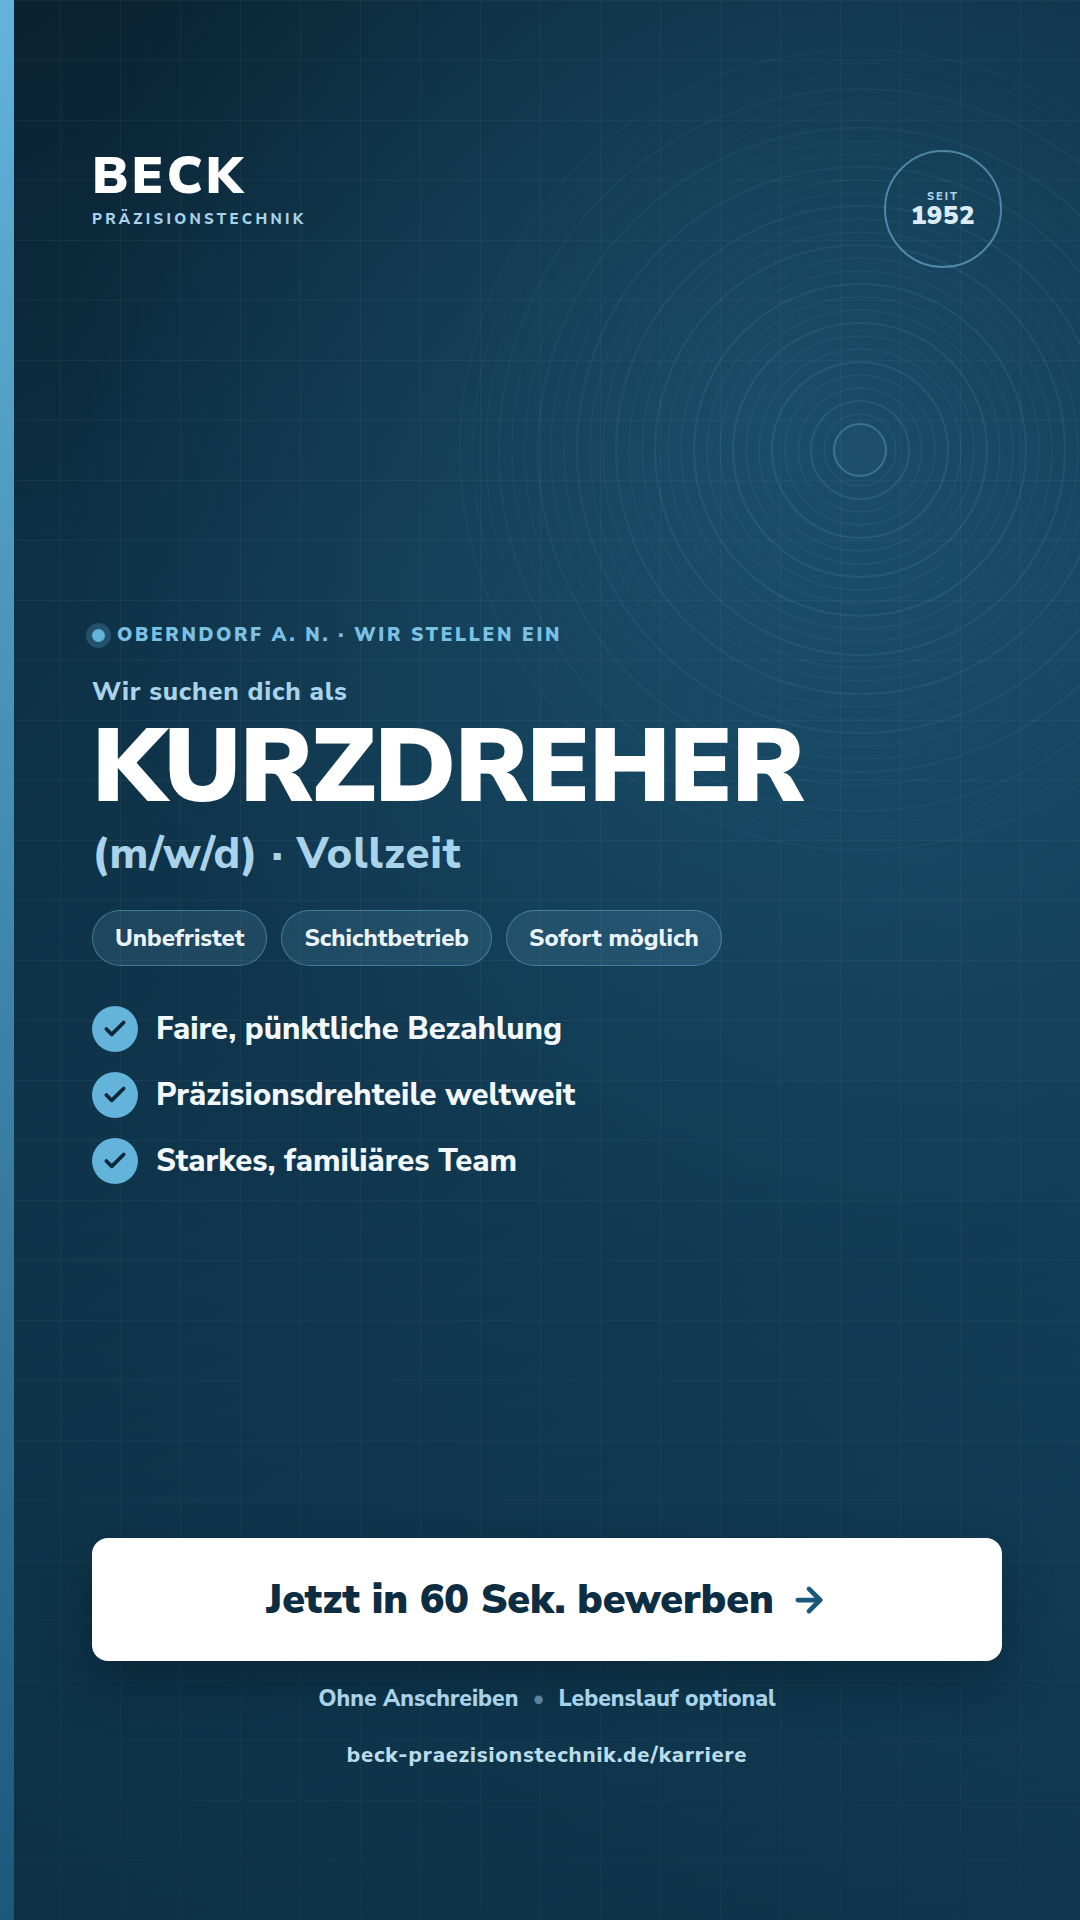
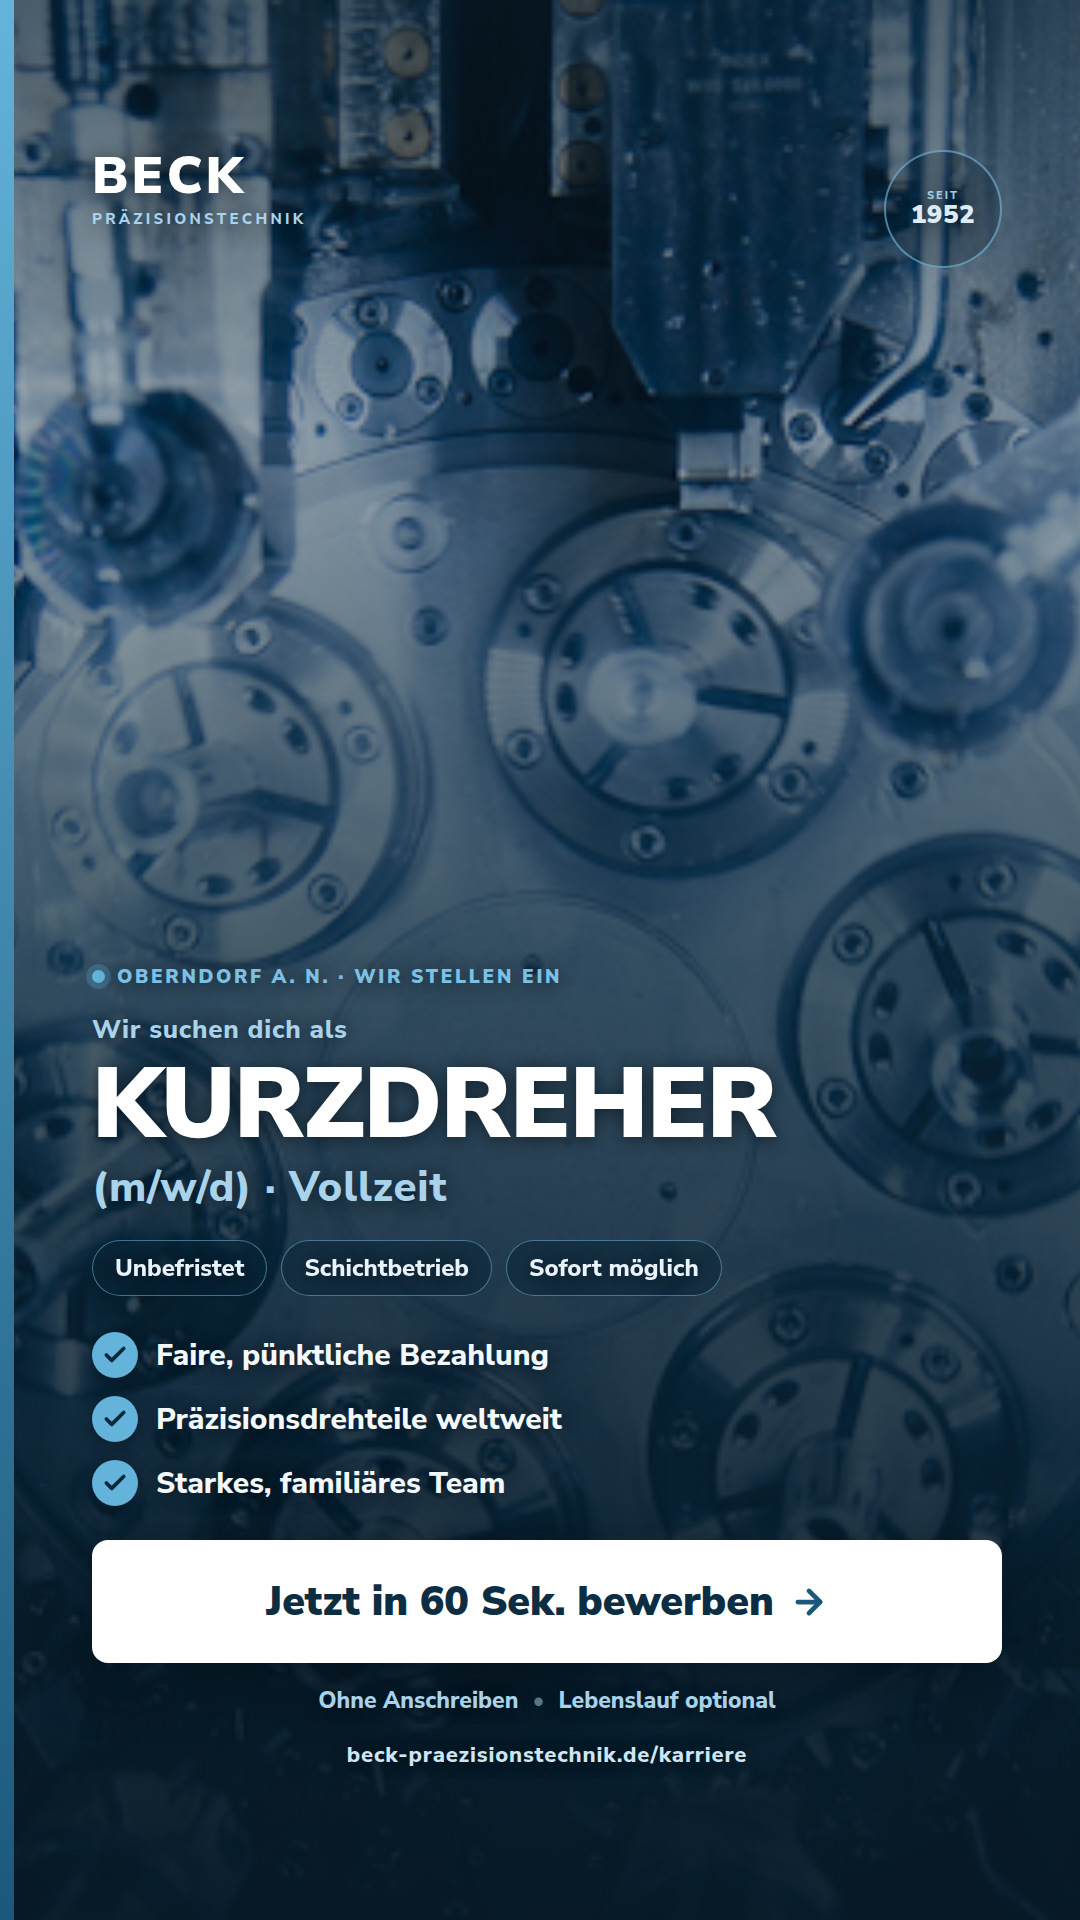
Creatives mit echten Werksfotos hinterlegen
Die 4 META-Creatives nutzen jetzt echte Beck-Fotos als Hintergrund
(Maschineneinrichter: Hohlschraube/CNC-Bearbeitung, Kurzdreher: MS52/Sechs-
spindler) mit Beck-CI-Scrim für klare Lesbarkeit. Feed 4:5 und Story 9:16.

Claude-Session: https://claude.ai/code/session_01AXqEoHWLr7sWqBg4GbUS1H

diff --git a/creatives/README.md b/creatives/README.md
@@ -29,5 +29,6 @@ oder die spätere Custom-Domain.)
 - Der Funnel filtert „weder Ausbildung noch Erfahrung“ automatisch aus –
   so kommen vorqualifizierte Leads in der Leadtable-Kachel an.
 
-Die Creatives sind aus einer Vorlage gerendert (`../tools`-frei, self-contained).
-Neue Varianten/Positionen lassen sich jederzeit im selben Stil ergänzen.
+Hintergrund sind echte Beck-Werksfotos (Maschineneinrichter: CNC-Bearbeitung /
+`Hohlschraube`, Kurzdreher: Sechsspindler / `MS52`) mit Beck-CI-Scrim und Text
+darüber. Neue Varianten/Positionen lassen sich jederzeit im selben Stil ergänzen.
